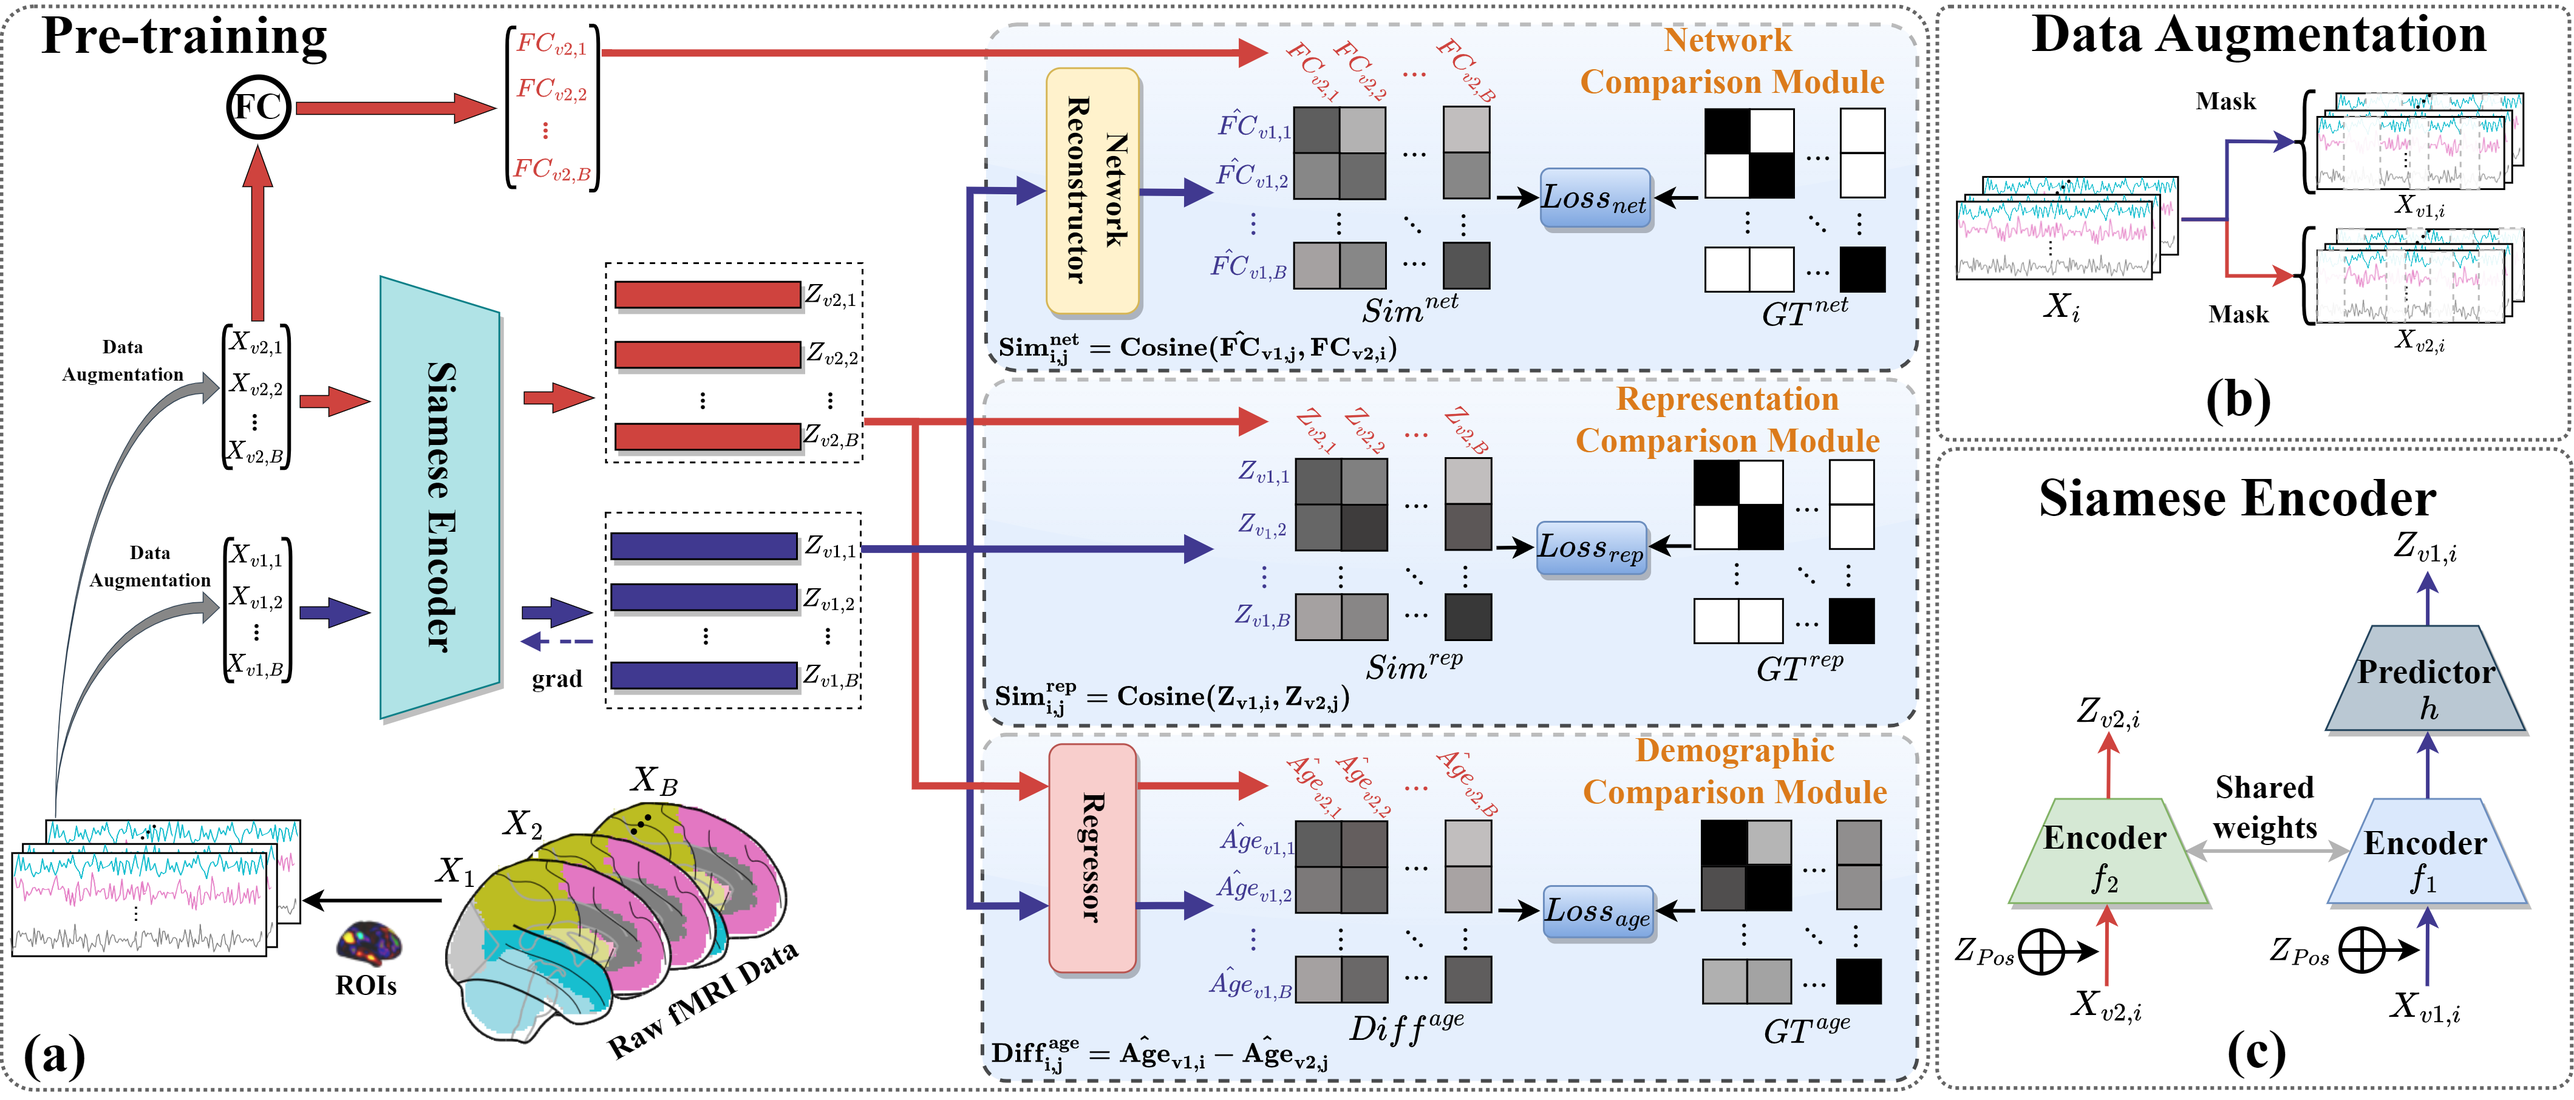
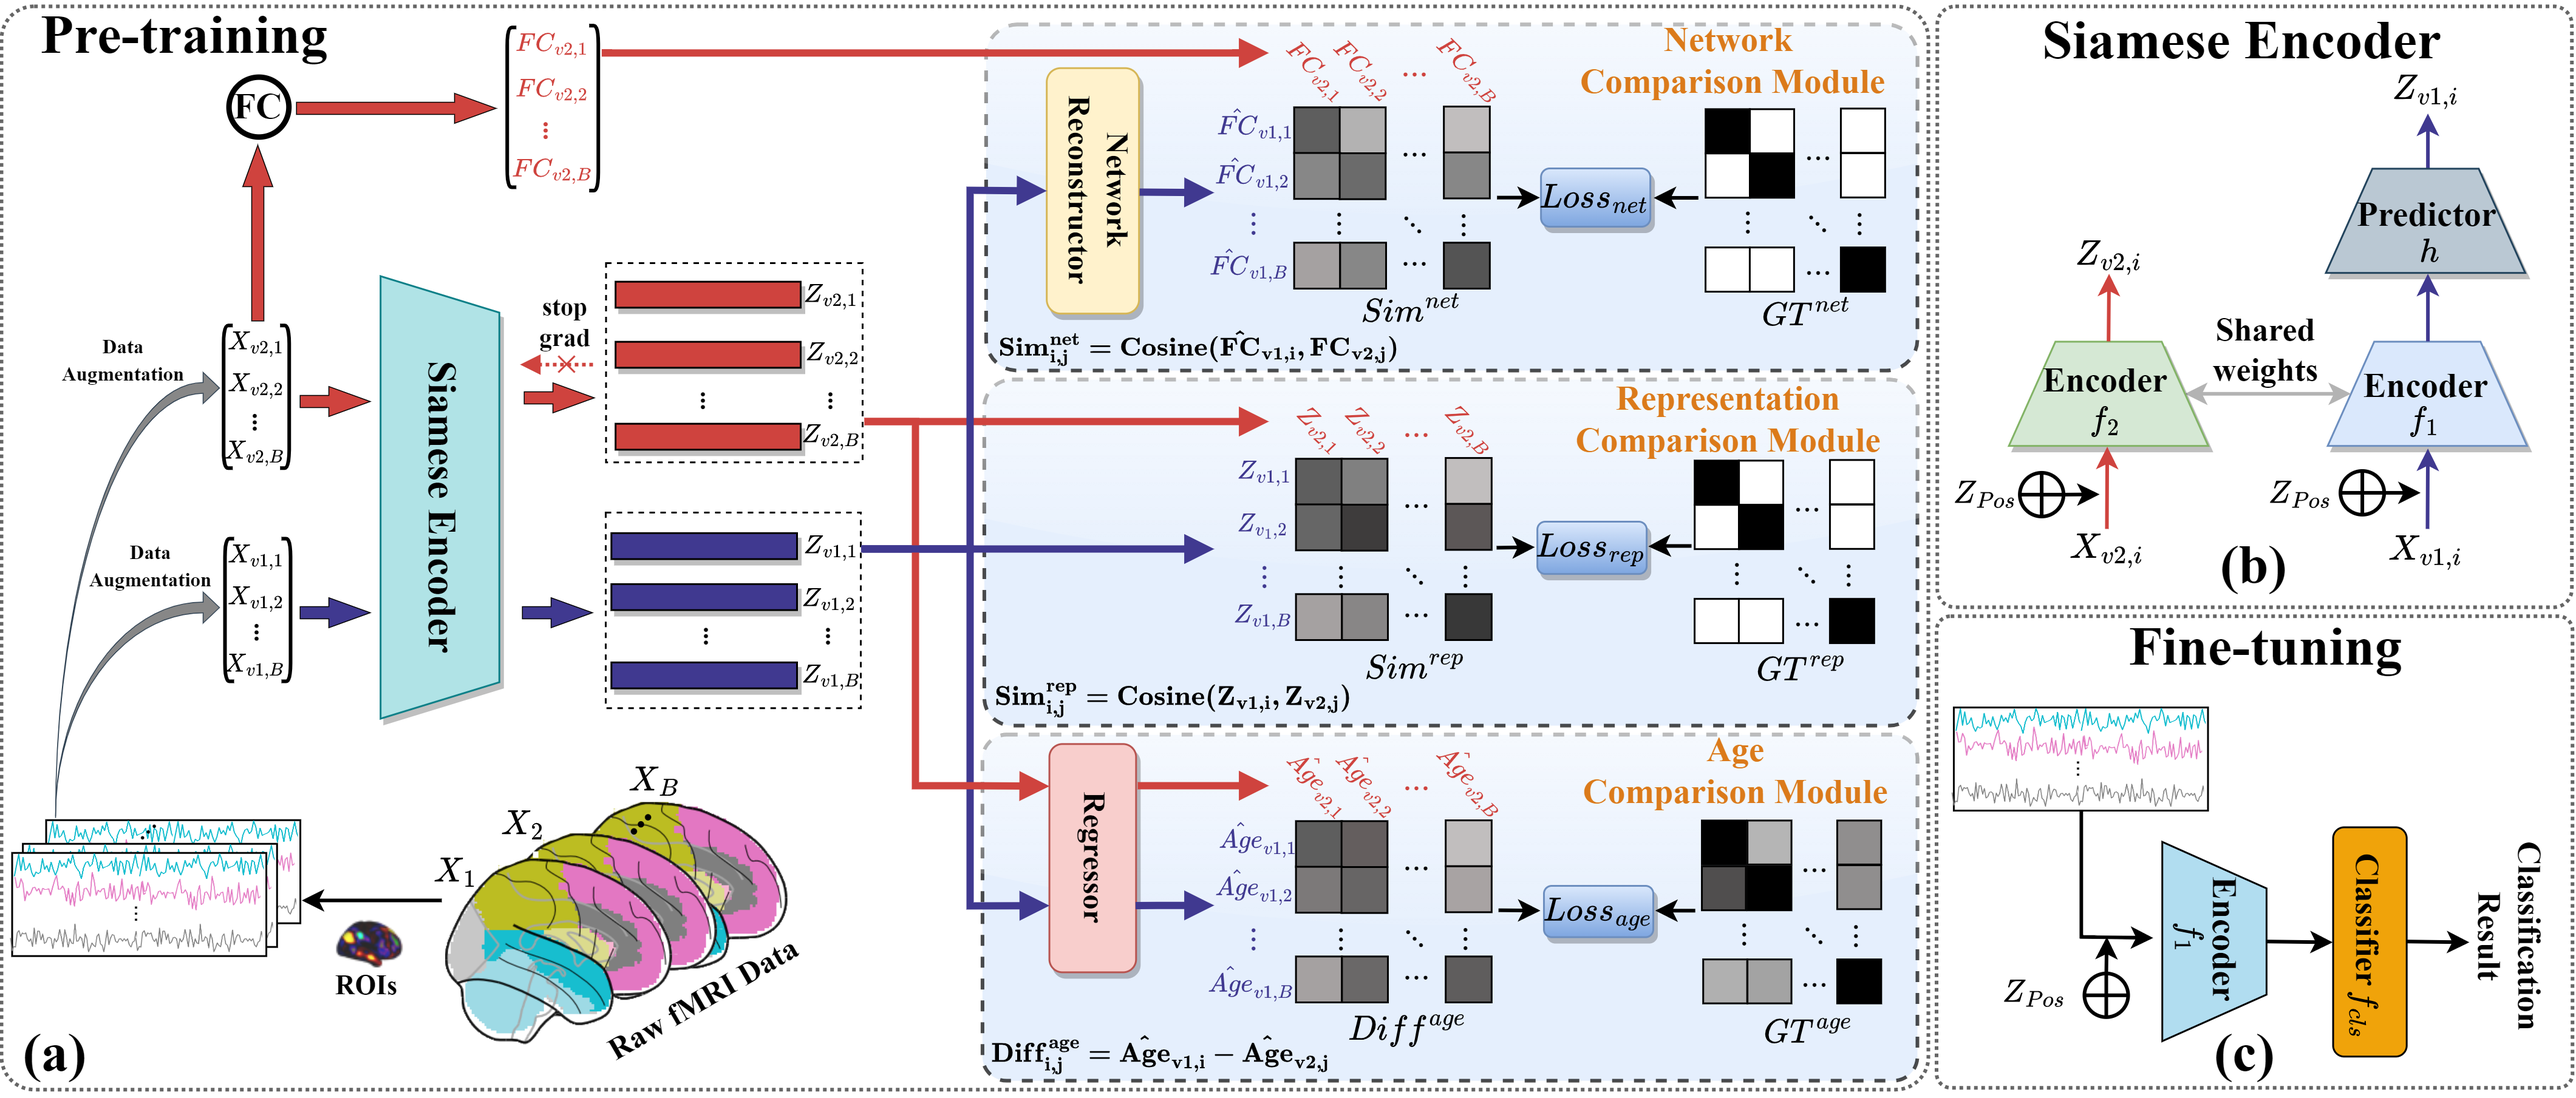
Initial commit

diff --git a/tools/engine_test.py b/tools/engine_test.py
@@ -4,11 +4,16 @@ import numpy as np
 from timm.utils import accuracy
 import furnace.utils as utils
 from calculate import sencitivity_specificity
+from sklearn.manifold import TSNE
+import torch.distributed as dist
+from torch.nn.parallel import DistributedDataParallel as DDP
 from sklearn.preprocessing import StandardScaler
 
 
 @torch.no_grad()
 def test(data_loader, model, device):
+    rank = dist.get_rank() if dist.is_initialized() else 0
+    world_size = dist.get_world_size() if dist.is_initialized() else 1
 
     metric_logger = utils.MetricLogger(delimiter="  ")
     header = 'Test:'
@@ -41,12 +46,54 @@ def test(data_loader, model, device):
     label = torch.cat(label_list).view(-1)
     outputs = torch.cat(output_list)
 
-    acc = accuracy(outputs, label, topk=(1,))[0].cpu().detach().numpy()
+    all_outputs = [torch.zeros_like(outputs) for _ in range(world_size)]
+    dist.all_gather(all_outputs, outputs)
+    global_outputs = torch.cat(all_outputs)
 
-    metric_logger.meters["test_acc"].update(acc)
+    # 1. 收集所有卡的预测结果
+    all_preds = [torch.zeros_like(mf) for _ in range(world_size)]
+    dist.all_gather(all_preds, mf)
+    global_preds = torch.cat(all_preds)
 
-    sensitivity, specificity = sencitivity_specificity(mf, label)
+    # 2. 收集所有卡的真实标签
+    all_labels = [torch.zeros_like(label) for _ in range(world_size)]
+    dist.all_gather(all_labels, label)
+    global_labels = torch.cat(all_labels)
 
-    metric_logger.synchronize_between_processes()
+    # 4. 收集所有卡的attention
+    all_attns = [torch.zeros_like(attns) for _ in range(world_size)]
+    dist.all_gather(all_attns, attns)
+    global_attns = torch.cat(all_attns)
 
-    return acc, sensitivity * 100, specificity * 100, label, mf
+    # ===== 只在主卡计算全局指标 =====
+    if rank == 0:
+        # 计算全局准确率
+        global_acc = accuracy(global_outputs, global_labels, topk=(1,))[0].item()
+
+        # 计算全局敏感度/特异度/AUC
+
+        global_sensitivity, global_specificity, global_auc = sencitivity_specificity(
+            global_preds, global_labels
+        )
+
+    else:
+        # 非主卡返回空值
+        global_acc, global_sensitivity, global_specificity, global_auc = 0, 0, 0, 0
+
+    # 广播全局结果到所有卡
+    if dist.is_initialized():
+        # 将指标打包成tensor广播
+        metrics_tensor = torch.tensor([
+            global_acc, global_sensitivity, global_specificity, global_auc
+        ]).float().to(device)
+        dist.broadcast(metrics_tensor, src=0)
+
+        # 解包广播结果
+        global_acc, global_sensitivity, global_specificity, global_auc = metrics_tensor.cpu().numpy()
+
+    # 更新metric_logger
+    metric_logger.meters["test_acc"].update(global_acc)
+
+    # 返回全局结果
+    return global_acc, global_sensitivity * 100, global_specificity * 100, \
+    global_auc, global_labels, global_preds, global_attns

diff --git a/tools/calculate.py b/tools/calculate.py
@@ -49,17 +49,13 @@ class Symmetric_loss(torch.nn.Module):
         A_norm = torch.sqrt(torch.sum(A ** 2, dim=1, keepdim=True))  # [8, 1]
         B_norm = torch.sqrt(torch.sum(B ** 2, dim=1, keepdim=True))  # [8, 1]
 
-        
         A_expanded = A.unsqueeze(1)  # [8, 1, 128]
         B_expanded = B.unsqueeze(0)  # [1, 8, 128]
-
         
         dot_product = torch.sum(A_expanded * B_expanded, dim=2)  # [8, 8]
 
-        
         norm_product = A_norm * B_norm.T  # [8, 8]
 
-        
         cosine_similarity = dot_product / norm_product  # [8, 8]
         scaled_similarity = cosine_similarity * self.t
 
